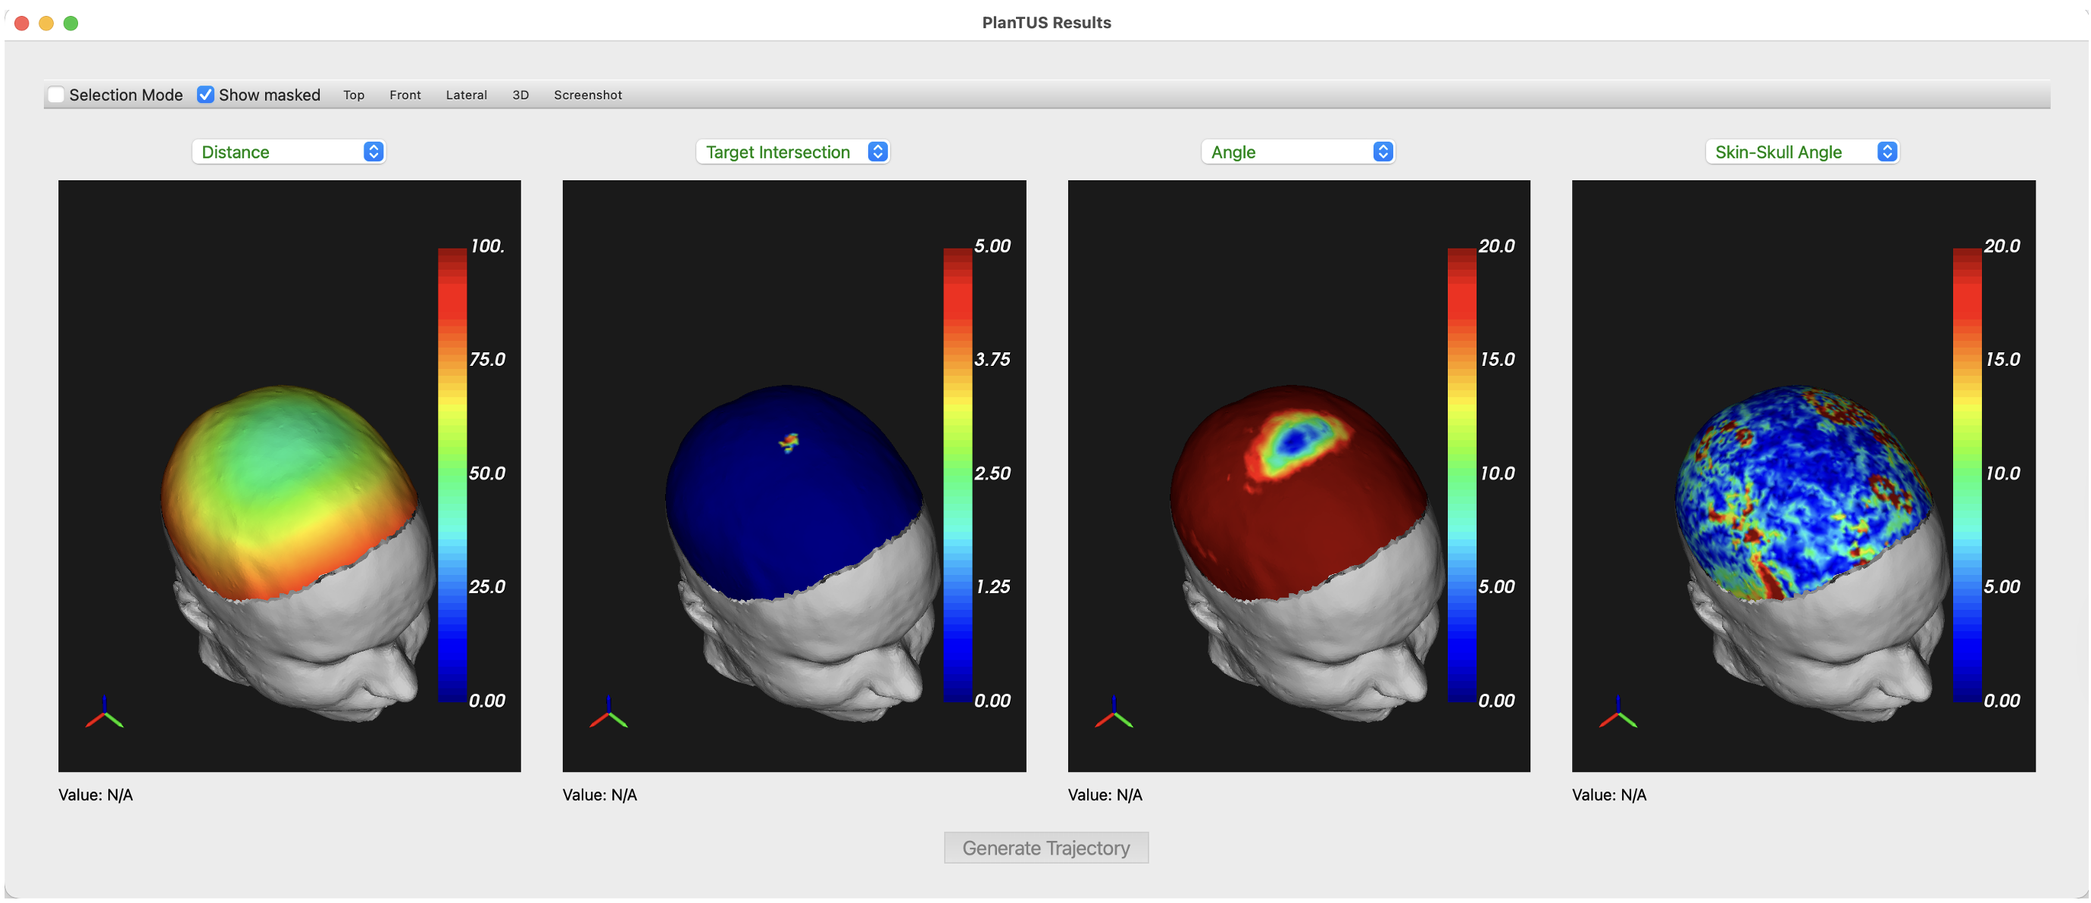
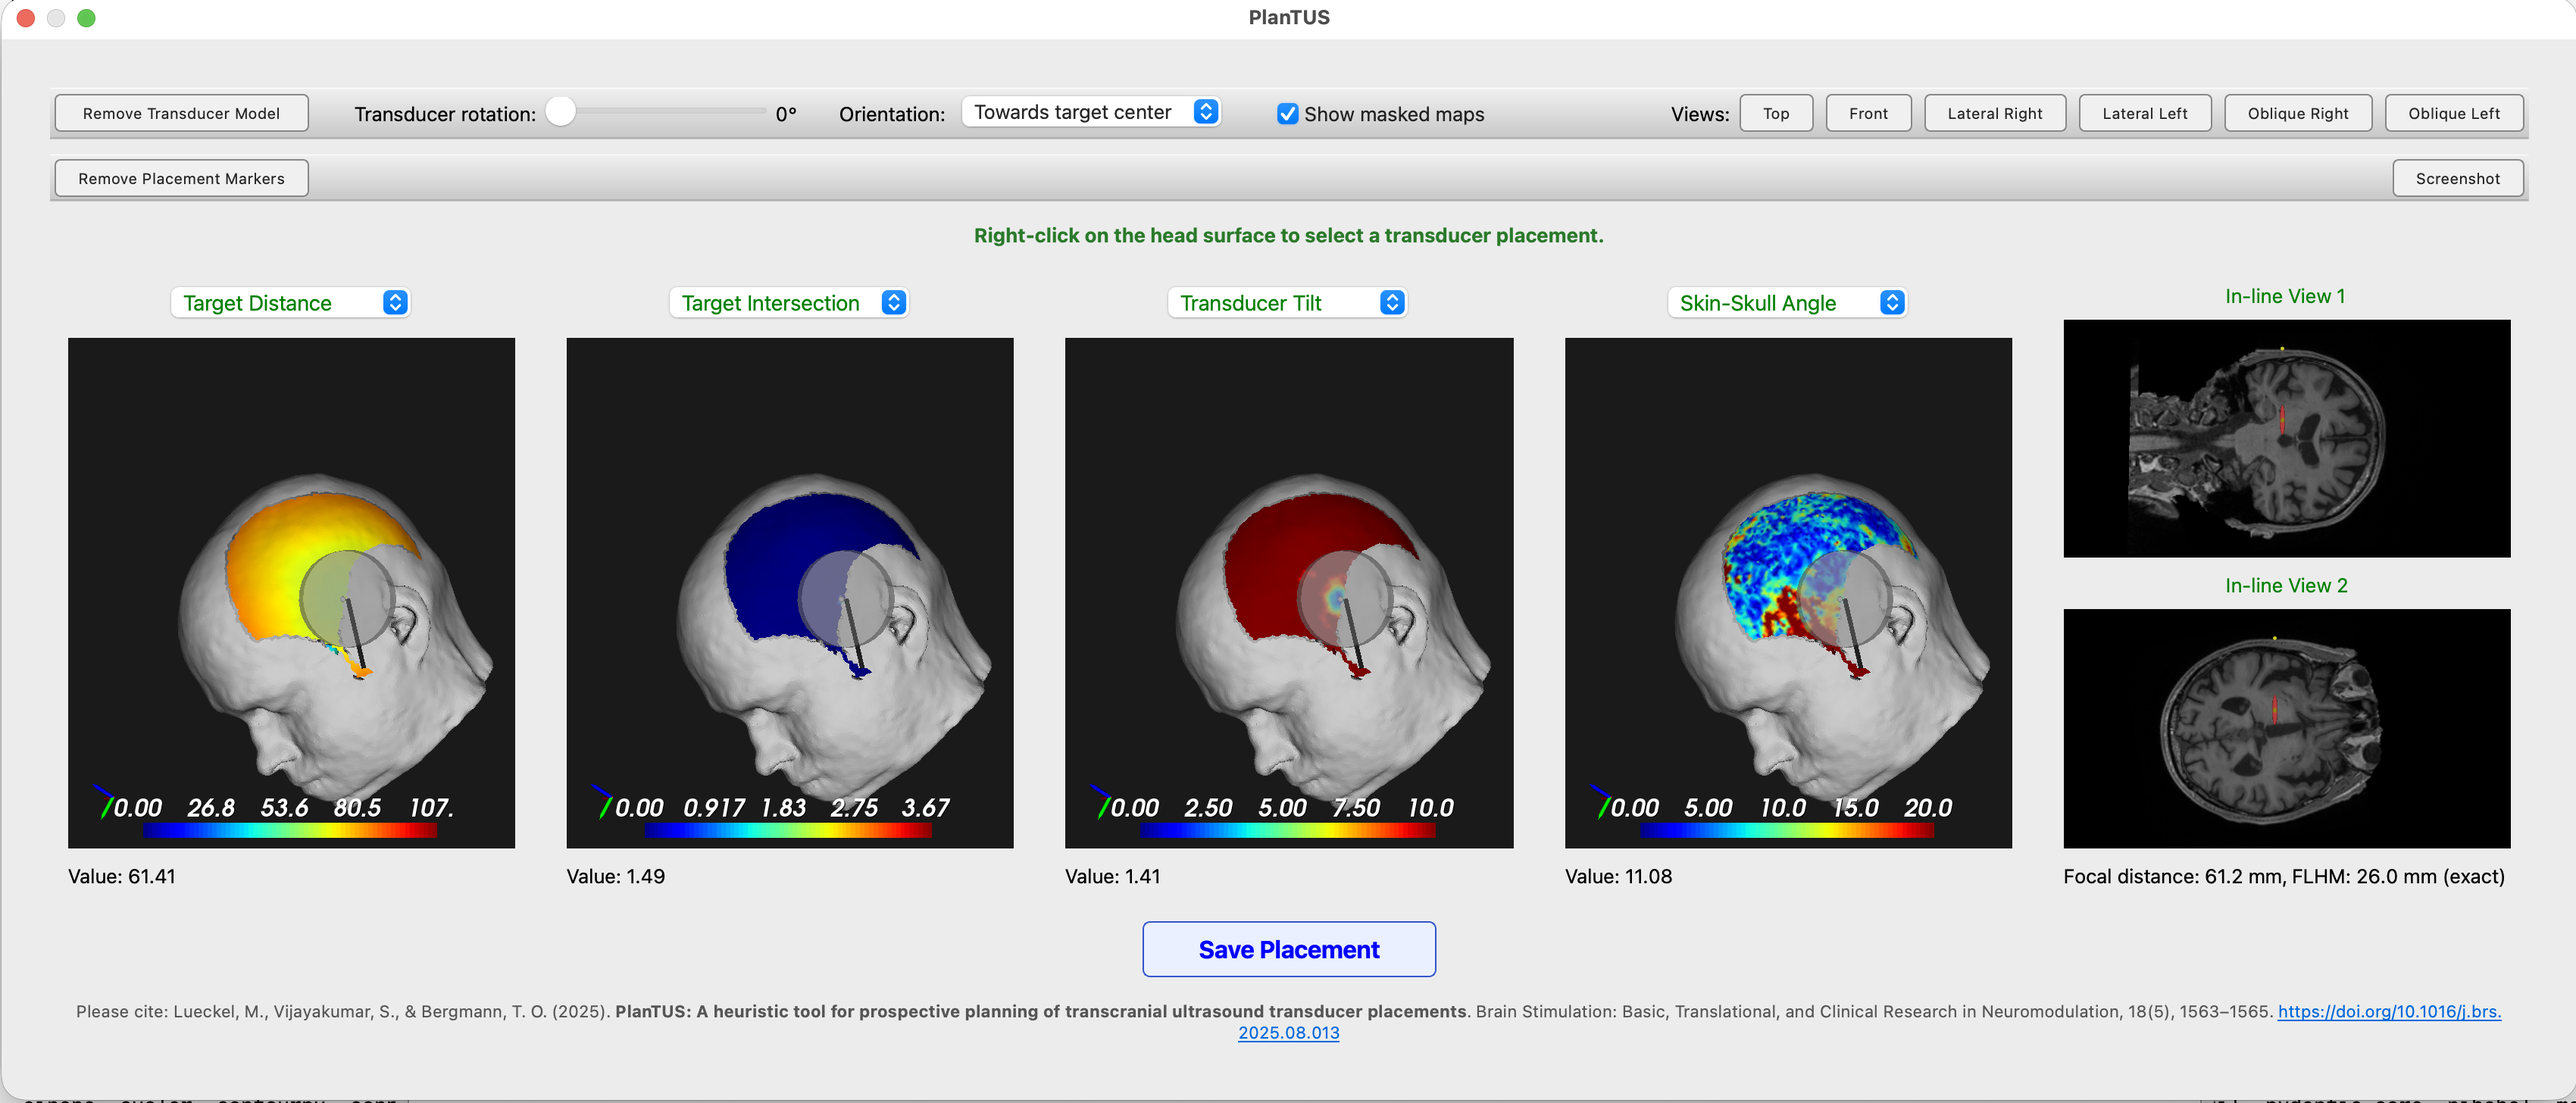
Update PlanTUS and server documentation
Revise PlanTUS setup and placement instructions for the bundled integration, document binary and source server startup options, and update the documentation version header to v0.8.8.

diff --git a/docs/docs/Advanced/PlanTUS.md b/docs/docs/Advanced/PlanTUS.md
@@ -1,6 +1,6 @@
 PlanTUS integration 
 -----
-Starting in r0.8.0, there is an experimental feature to integrate with the excellent tool [PlanTUS](https://doi.org/10.1016/j.brs.2025.08.013) developed by Maximilian Lueckel, Suhas Vijayakumar and Til Ole Bergmann from Mainz University that helps to refine trajectories using heatmaps of incident angles, distance, degree of intersection and skin-skull angle.
+BabelBrain integrates with the excellent tool [PlanTUS](https://doi.org/10.1016/j.brs.2025.08.013) developed by Maximilian Lueckel, Suhas Vijayakumar and Til Ole Bergmann from Mainz University that helps to refine trajectories using heatmaps of incident angles, distance, degree of intersection and skin-skull angle.
 
 <img src="PlanTUS-1.png" height=350px>
 
@@ -8,36 +8,22 @@ This procedure in BabelBrain can update the trajectory defined originally in 3DS
 
 PlanTUS works the best when a volume mask of a target ROI is provided as input. If no ROI is provided, a 3 mm diameter ROI will be generated at the original target generated in Brainsight or 3DSlicer.
 
+Since version v0.8.8, a complete copy of the PlanTUS code is shipped with BabelBrain. If a user decides to use an updated version of PlanTUS, they can specied in the advanced dialog PlanTUS section.
+
 
 # Requirements
-In this initial integration, the integration needs:
+* Identify location path of SimNIBS - for example `/Users/spichardo/Applications/SimNIBS-4.6`
+* Add extra dependencies to SimNIBS enviroment - consult PlanTUS [main page](https://github.com/mlueckel/PlanTUS) for details.
 
-* Clone of [PlanTUS](https://github.com/mlueckel/PlanTUS)
-* [Workbench connectome](https://humanconnectome.org/software/connectome-workbench). If on macOS **follow the instructions regarding resigning the binaries**.
-
-
-Download all the tools above and take note of paths for PlanTUS location and binary files of Workbench (location of `wb_command` binary).
-
-Take also note of path to SimNIBS root path; for example `/Users/spichardo/Applications/SimNIBS-4.5`.
-
-## Extra libraries in SimNIBS environment
-Activate SimNIBS Python environment, for example:
-```bash
-source <path_to_SimNIBS_root>/simnibs_env/bin/activate
-```
-Install extra libraries with
-```bash
-pip install nilearn vtk 
-```
 
 ## Execution of PlanTUS
-* Define location in Brainsight/Slicer and export trajectory/linear transformation.
-* Do not worry to adjust the trajectory manually as is usually done, as we expect to use the one calculated with PlanTUS. Just focus on the **target location**.
+* Ideally, have an ROI mask of your region of interest in the same space of the T1w file used for simulations. If no ROI is provided, a 3 mm diameter ROI will be generated at the original target generated in Brainsight or 3DSlicer.
+* Define location in Brainsight/Slicer and export trajectory/linear transformation. Do not worry to adjust the trajectory manually as is usually done, as we expect to use the one calculated with PlanTUS. Just focus on the **target location**. 
 
 <img src="PlanTUS-2.png" height=450px>
 
 * Specify paths to tools in the Advanced Dialog
-<img src="advanced-2-PlanTUS.png" height=250px>
+<img src="advanced-2-PlanTUS.png" height=200px>
 
 * These paths will remain saved between BabelBrain sessions.
 
@@ -45,13 +31,11 @@ pip install nilearn vtk
 
 <img src="PlanTUS-3.png" height=350px>
 
-* All views are linked to inspect all heatmaps simultaneously (similar as in connectome workbench).
+* All views are linked to inspect all heatmaps simultaneously.
 
-* Click on “Selection Mode” and select a feasible location on the head’s surface. For example, one that minimizes incident angle. A small spherical marker will appear on the selected location as shown below
+* Use right click action on mouse/trackpad and select a feasible location on the head’s surface. For example, one that minimizes incident angle.
+* Click on `Save Placement` and confirm to use this location for BabelBrain.
 
-<img src="PlanTUS-4.png" height=350px>
-
-* Click on `Click on Generate Trajectory`.
 * A visualization of the transducer at the selected location will be shown
 
 <img src="PlanTUS-5.png" height=300px>

diff --git a/docs/docs/server.md b/docs/docs/server.md
@@ -19,18 +19,22 @@ job queue.
   [Transport security (TLS)](#transport-security-tls).
 
 ## Starting the server
+The server can be initiated using the binary distribution or the source code. For example
+```bash
+/Applications/BabelBrain.app/Contents/MacOS/BabelBrain --serve --headless # localhost:8760, no GUI shown
+/Applications/BabelBrain.app/Contents/MacOS/BabelBrain --serve --headless --serve-host 164.5.34.1  # specify IP address of exposed network interface to accept requests
+/Applications/BabelBrain.app/Contents/MacOS/BabelBrain --serve --headless --serve-host 164.5.34.1 --serve-port 9000 --serve-token SECRET # specify also different port number and secret TOKEN 
+```
 
 ```bash
 python BabelBrain/BabelBrain.py --serve --headless               # localhost:8760, no GUI shown
-python BabelBrain/BabelBrain.py --serve --serve-host 164.5.34.1  # specify IP address of exposed network interface to accept requests
-python BabelBrain/BabelBrain.py --serve --serve-host 164.5.34.1 --serve-port 9000 --serve-token SECRET # specify also different port number and secret TOKEN 
+python BabelBrain/BabelBrain.py --serve --headless --serve-host 164.5.34.1  # specify IP address of exposed network interface to accept requests
+python BabelBrain/BabelBrain.py --serve --headless --serve-host 164.5.34.1 --serve-port 9000 --serve-token SECRET # specify also different port number and secret TOKEN 
 ```
 
 Token use is **HIGHLY RECOMMENDED**, and often required by IT, when using in a large network
-### Running from the binary distribution
-The frozen application works the same way (`BabelBrain.exe --serve …` /
-`BabelBrain.app/Contents/MacOS/BabelBrain --serve …`). Stop the server with
-`Ctrl-C`.
+
+Stop the server with `Ctrl-C`.
 
 ### Server mode options
 

diff --git a/docs/docs/index.md b/docs/docs/index.md
@@ -1,7 +1,7 @@
 BabelBrain 
 =============
-**v0.9.0**  
-July 9th, 2026.
+**v0.8.8**  
+Nov 1st, 2026.
 
 Samuel Pichardo, Ph.D  
 Associate Professor  
